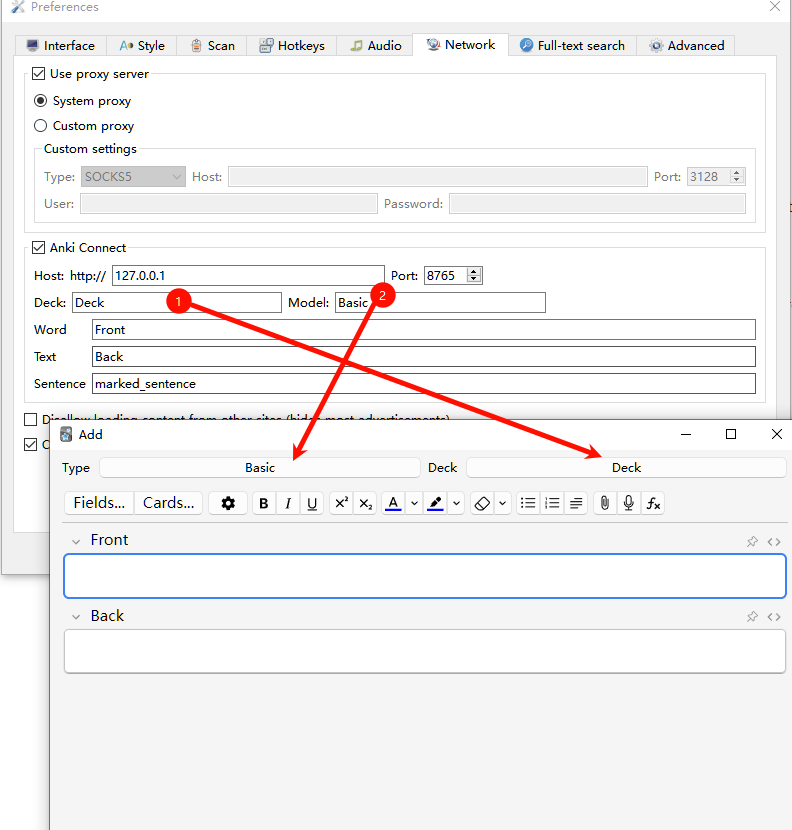
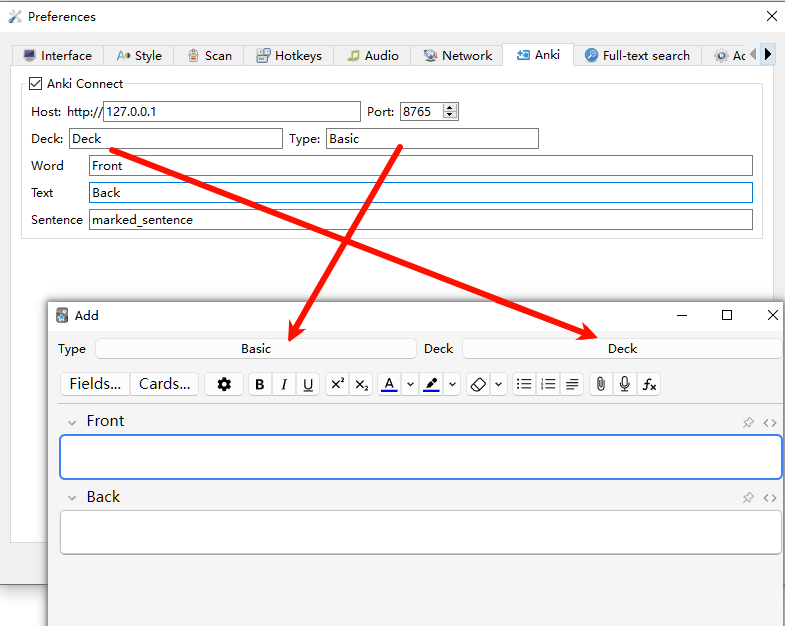
opt: redesign anki connect ui (#2768)
* opt: redesign anki connect ui

Changed region(s): [[0.0, 0.0, 1.0, 1.0], [0.8255, 0.1821, 0.9478, 0.2428]]

diff --git a/locale/crowdin.ts b/locale/crowdin.ts
@@ -3248,10 +3248,6 @@ for all program&apos;s network requests.</source>
         <translation type="unfinished"></translation>
     </message>
     <message>
-        <source>Model:</source>
-        <translation type="unfinished"></translation>
-    </message>
-    <message>
         <source>Word</source>
         <translation type="unfinished"></translation>
     </message>
@@ -3469,6 +3465,10 @@ from Stardict, Babylon and GLS dictionaries</source>
     </message>
     <message>
         <source>Open website dictionary in separate tab</source>
+        <translation type="unfinished"></translation>
+    </message>
+    <message>
+        <source>Anki</source>
         <translation type="unfinished"></translation>
     </message>
 </context>
